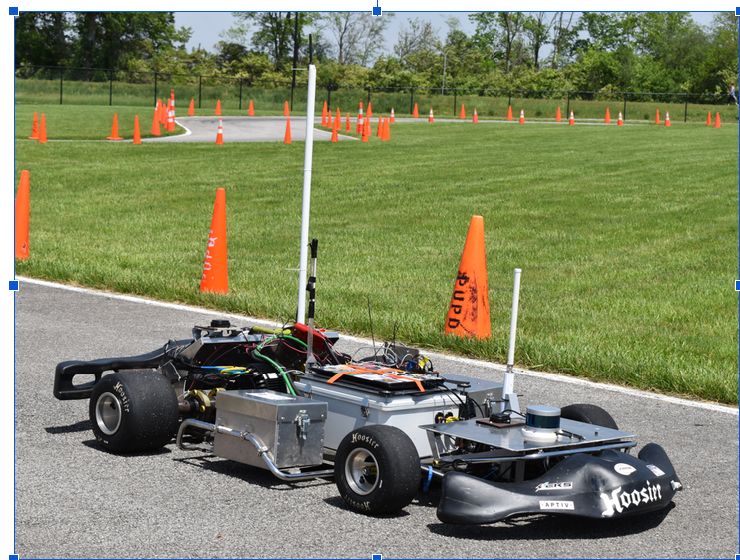
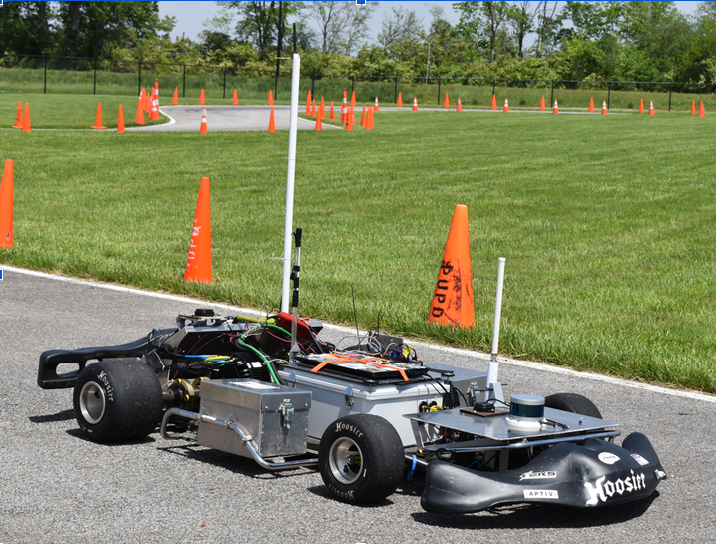
Add files via upload

diff --git a/projects/soda-machine.html b/projects/soda-machine.html
@@ -1,1 +1,14 @@
-<!doctype html><html lang="en"><head><meta charset="utf-8"><meta name="viewport" content="width=device-width,initial-scale=1"><title>Arduino Soda Dispenser | Ruben Murillo</title><link rel="stylesheet" href="../assets/css/style.css"></head><body><nav class="nav"><div class="wrap nav-inner"><a class="brand" href="../index.html">RUBEN<span>.</span></a><div class="nav-links"><a href="../index.html#experience">Experience</a><a href="../index.html#projects">Projects</a><a href="../index.html#skills">Skills</a><a href="../index.html#resume">Resume</a></div><button class="menu">Menu</button></div></nav><main><header class="project-hero"><div class="wrap"><div class="eyebrow">Arduino • Bluetooth • DC Pump • Mechanical Integration</div><h1>Arduino Soda Dispenser</h1><p class="lede">A Bluetooth-controlled soda dispensing system combining electronics, mechanisms and 3D-printed components.</p><div class="tags"><span class="tag">Arduino</span><span class="tag">Bluetooth</span><span class="tag">DC Pump</span><span class="tag">Mechanical Integration</span></div></div></header><section style="padding-top:18px"><div class="wrap project-grid"><article class="content-box"><h2>Project Overview</h2><p>Built an Arduino-controlled beverage dispenser that receives commands from a smartphone over Bluetooth. A repurposed printer mechanism moves the cup while a DC pump provides the pressure used for dispensing.</p><h2>Key Features</h2><ul><li>Bluetooth smartphone control.</li><li>Repurposed printer carriage for cup positioning.</li><li>DC pump-based dispensing mechanism.</li><li>Custom 3D-printed cup holder.</li></ul><h2>Project Media</h2><div class="media-note"><p>Project media will be added when the original soda-dispenser photos are available. The project page remains fully functional without external Wix image dependencies.</p></div></article><aside class="side-box"><h3>Project Snapshot</h3><div class="kv"><div><span>Period</span><b>Arduino Project</b></div><div><span>Focus</span><b>Mechatronics</b></div></div><p style="margin-top:18px"><a class="btn" href="../index.html#projects">← Back to projects</a></p></aside></div></section></main><footer class="footer"><div class="wrap footer-inner"><span>© <span id="year"></span> Ruben Murillo</span><span>Engineering Portfolio</span></div></footer><script src="../assets/js/main.js"></script></body></html>
+<!doctype html><html lang="en"><head><meta charset="utf-8"><meta name="viewport" content="width=device-width,initial-scale=1"><title>Arduino Soda Dispenser | Ruben Murillo</title><link rel="stylesheet" href="../assets/css/style.css"></head><body><nav class="nav"><div class="wrap nav-inner"><a class="brand" href="../index.html">RUBEN<span>.</span></a><div class="nav-links"><a href="../index.html#experience">Experience</a><a href="../index.html#projects">Projects</a><a href="../index.html#skills">Skills</a><a href="../index.html#resume">Resume</a></div><button class="menu">Menu</button></div></nav><main><header class="project-hero"><div class="wrap"><div class="eyebrow">Arduino • Bluetooth • DC Pump • Mechanical Integration</div><h1>Arduino Soda Dispenser</h1><p class="lede">A Bluetooth-controlled soda dispensing system combining electronics, mechanisms and 3D-printed components.</p><div class="tags"><span class="tag">Arduino</span><span class="tag">Bluetooth</span><span class="tag">DC Pump</span><span class="tag">Mechanical Integration</span></div></div></header><section style="padding-top:18px"><div class="wrap project-grid"><article class="content-box"><h2>Project Overview</h2><p>Built an Arduino-controlled beverage dispenser that receives commands from a smartphone over Bluetooth. A repurposed printer mechanism moves the cup while a DC pump provides the pressure used for dispensing.</p><h2>Key Features</h2><ul><li>Bluetooth smartphone control.</li><li>Repurposed printer carriage for cup positioning.</li><li>DC pump-based dispensing mechanism.</li><li>Custom 3D-printed cup holder.</li></ul><h2>Project Media</h2><div class="media-note"><p>Project media will be added when the original soda-dispenser photos are available. The project page remains fully functional without external Wix image dependencies.</p></div></article><aside class="side-box"><h3>Project Snapshot</h3><div class="kv"><div><span>Period</span><b>Arduino Project</b></div><div><span>Focus</span><b>Mechatronics</b></div></div><p style="margin-top:18px"><a class="btn" href="../index.html#projects">← Back to projects</a></p></aside></div></section>
+<section class="section">
+  <div class="section-heading">
+    <p class="eyebrow">PROJECT MEDIA</p>
+    <h2>Build & control interface</h2>
+  </div>
+  <div class="project-gallery">
+    <figure><img src="../assets/images/soda-machine/system-overview.jpg" alt="Arduino soda dispenser system overview"><figcaption>Arduino-controlled dispenser with mobile interface.</figcaption></figure>
+    <figure><img src="../assets/images/soda-machine/dispenser-build.jpg" alt="Soda dispenser completed build"><figcaption>Physical dispenser mechanism and electronics.</figcaption></figure>
+    <figure><img src="../assets/images/soda-machine/control-interface.jpg" alt="Soda machine control interface"><figcaption>Control interface used to command dispensing functions.</figcaption></figure>
+  </div>
+</section>
+
+</main><footer class="footer"><div class="wrap footer-inner"><span>© <span id="year"></span> Ruben Murillo</span><span>Engineering Portfolio</span></div></footer><script src="../assets/js/main.js"></script></body></html>
